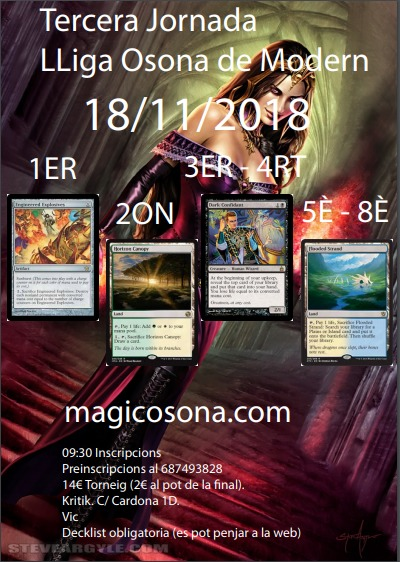
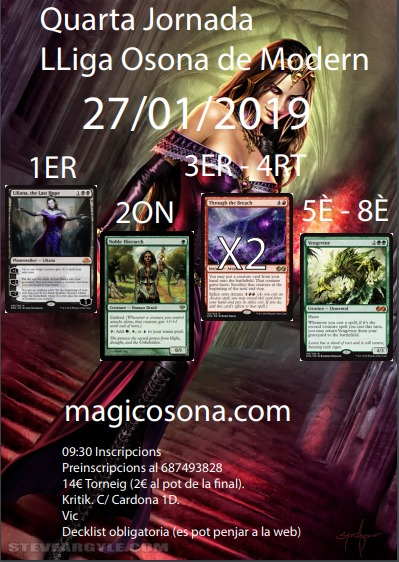
update data

diff --git a/dataProximTorneig.php b/dataProximTorneig.php
@@ -1,5 +1,5 @@
 <?php
-  $proxim="2018-11-18";
+  $proxim="2019-01-27";
   $proximUnix=strtotime($proxim);
   $dataProximTorneig=date("d/m/Y",$proximUnix);
   $falten=ceil(($proximUnix-time())/86400);
